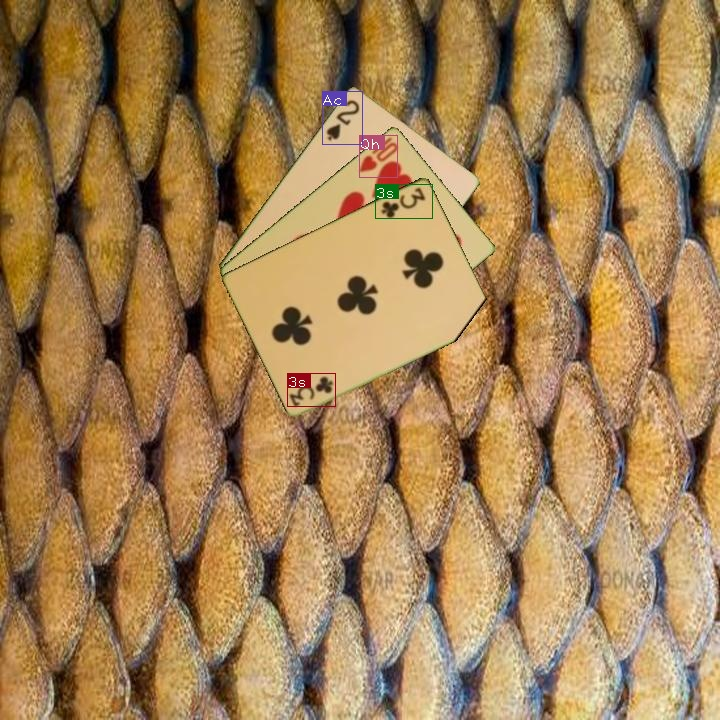
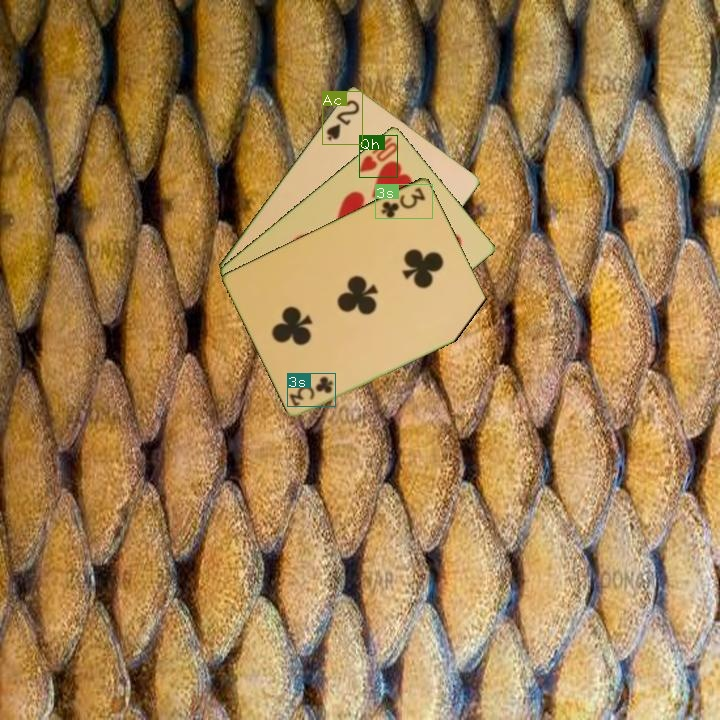
finish scoring

Changed region(s): [[0.4278, 0.1222, 0.55, 0.2139], [0.5194, 0.2444, 0.5806, 0.3056], [0.3972, 0.5194, 0.4583, 0.5806]]

diff --git a/score_hand.py b/score_hand.py
@@ -4,7 +4,7 @@ from util import class_num_to_tuple
 from os import path as osp
 import argparse
 
-CONF = .4
+CONF = .5
 NMS_THRESH = .4
 RES = "./res"
 CFG = "cfg/obj-yolov3.cfg"
@@ -16,16 +16,16 @@ def score_hand(hole_img, community_img=None):
     bs = 1
     reso = "608"
     if community_img:
-        imlist = [osp.join(osp.realpath('.'), hole_img), osp.join(osp.realpath('.'), hole_img)]
+        imlist = [osp.join(osp.realpath('.'), hole_img), osp.join(osp.realpath('.'), community_img)]
     if not community_img:
         imlist = [osp.join(osp.realpath('.'), hole_img)]
 
     batch_size, CUDA, num_classes, classes, model, inp_dim, imlist, loaded_ims \
         = init_detector(imlist, bs, CONF, NMS_THRESH, RES, CFG, WEIGHTS, reso)
-    output1 = get_output(batch_size, CONF, NMS_THRESH, CUDA, num_classes, classes, model, inp_dim, imlist, loaded_ims)
+    output = get_output(batch_size, CONF, NMS_THRESH, CUDA, num_classes, classes, model, inp_dim, imlist, loaded_ims)
     classes = output[:, -1]
     cards = set()
-    for i in range(length(classes)):
+    for i in range(len(classes)):
         cards.add(class_num_to_tuple(classes[i]))
     print(list(cards))
     return list(cards)

diff --git a/util.py b/util.py
@@ -10,7 +10,8 @@ import cv2
 # converts class number to tuple of (suit, value)
 def class_num_to_tuple(class_n):
     suit = int(class_n / 13)
-    value = class_n % 13
+    #cast to convert from tensor
+    value = int(class_n % 13)
     return (suit, value)
 
 def unique(tensor):
